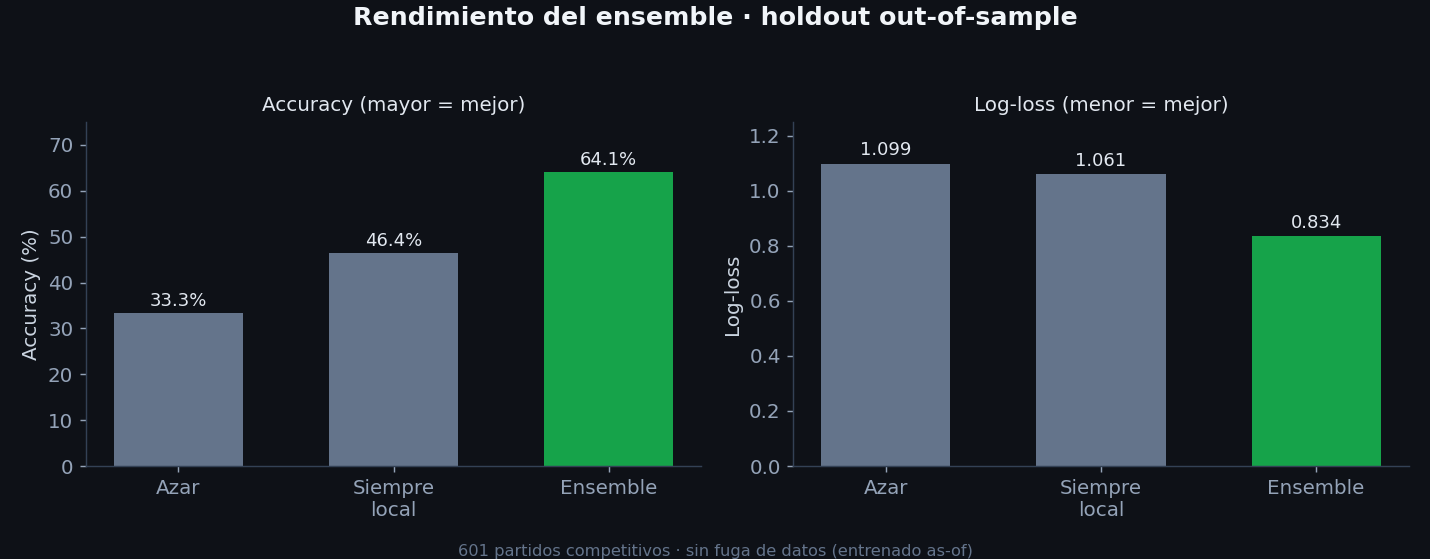
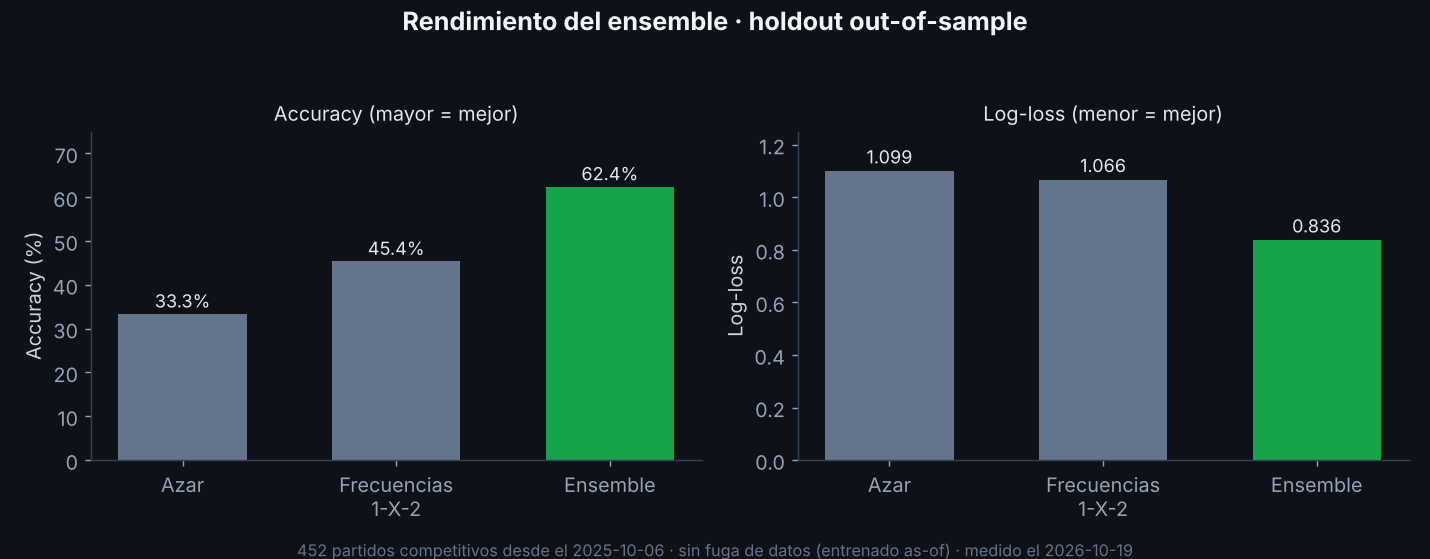
docs: regenerar las figuras con las métricas del backtest actual
Las figuras de docs/ eran de junio y mostraban 64.1% sobre 601 partidos.
Ahora reflejan el holdout de 12 meses medido el 2026-10-19 (452 partidos):
ensemble 62.4% / log-loss 0.836 / RPS 0.163, cuántico 62.4% / RPS 0.169,
baseline de frecuencias 45.4% / 1.066.

Para que no vuelvan a quedar desfasadas, quantum_eval.py guarda sus
métricas en docs/metricas_holdout.json y scripts/make_readme_figure.py
las lee de ahí en vez de tenerlas escritas a mano. El ranking Elo y la
frontera de decisión salen de data/processed/quantum_demo.json actual.

Claude-Session: https://claude.ai/code/session_0114ttwJo4EHPeLH2H4owZd1

diff --git a/scripts/make_readme_figure.py b/scripts/make_readme_figure.py
@@ -3,11 +3,16 @@
   - docs/ranking.png      ranking Elo de las selecciones del Mundial
   - docs/performance.png  rendimiento del ensemble vs baselines (out-of-sample)
 
-Lee data/processed/quantum_demo.json (no necesita PennyLane). Uso:
+Lee data/processed/quantum_demo.json (lo genera quantum_match.py) y
+docs/metricas_holdout.json (lo genera quantum_eval.py). No necesita PennyLane.
+Uso:
+    python quantum_eval.py              # actualiza docs/metricas_holdout.json
     python scripts/make_readme_figure.py
 """
 import json
+import math
 import os
+import sys
 
 import matplotlib
 matplotlib.use("Agg")
@@ -21,6 +26,16 @@ os.makedirs(DOCS, exist_ok=True)
 with open(os.path.join(ROOT, "data/processed/quantum_demo.json"), encoding="utf-8") as f:
     D = json.load(f)
 
+_METRICS = os.path.join(DOCS, "metricas_holdout.json")
+if not os.path.exists(_METRICS):
+    sys.exit("Falta docs/metricas_holdout.json: corré primero `python quantum_eval.py`.")
+with open(_METRICS, encoding="utf-8") as f:
+    M = json.load(f)
+
+
+def _fmt_int(n):
+    return f"{n:,}".replace(",", ".")
+
 BG = "#0e1117"
 plt.rcParams.update({
     "figure.facecolor": BG, "axes.facecolor": BG, "savefig.facecolor": BG,
@@ -32,8 +47,9 @@ plt.rcParams.update({
 
 def fig_quantum():
     models = ["Baseline", "Cuántico (4q)", "Ensemble"]
-    acc = [46.4, 61.2, 64.1]
-    rps = [0.234, 0.175, 0.160]
+    rows = [M["baseline_frecuencias"], M["cuantico"], M["ensemble"]]
+    acc = [r["acc"] * 100 for r in rows]
+    rps = [r["rps"] for r in rows]
     colors = ["#64748b", "#a855f7", "#16a34a"]
 
     fig, (ax1, ax2) = plt.subplots(1, 2, figsize=(12, 4.6),
@@ -69,8 +85,9 @@ def fig_quantum():
     for s in ["top", "right"]:
         ax2.spines[s].set_visible(False)
 
-    fig.text(0.5, 0.01, "4 qubits · data re-uploading · entrenado sobre 23.298 partidos "
-             "(PennyLane) · RPS menor = mejor", ha="center", color="#64748b", fontsize=9)
+    fig.text(0.5, 0.01, f"4 qubits · data re-uploading · entrenado sobre {_fmt_int(D['n_matches'])} "
+             f"partidos (PennyLane) · holdout de {M['partidos']} partidos · RPS menor = mejor",
+             ha="center", color="#64748b", fontsize=9)
     fig.tight_layout(rect=[0, 0.03, 1, 0.94])
     fig.savefig(os.path.join(DOCS, "quantum.png"), dpi=130)
     plt.close(fig)
@@ -99,14 +116,15 @@ def fig_ranking():
 
 
 def fig_performance():
-    # Métricas del backtest out-of-sample (holdout 12m, 601 partidos competitivos)
+    # Métricas del holdout out-of-sample que guarda quantum_eval.py
     fig, (ax1, ax2) = plt.subplots(1, 2, figsize=(11, 4.3))
     fig.suptitle("Rendimiento del ensemble · holdout out-of-sample",
                  fontsize=14, fontweight="bold", color="#f1f5f9", y=0.99)
 
-    labels = ["Azar", "Siempre\nlocal", "Ensemble"]
-    acc = [33.3, 46.4, 64.1]
-    ll = [1.099, 1.061, 0.834]
+    labels = ["Azar", "Frecuencias\n1-X-2", "Ensemble"]
+    base, ens = M["baseline_frecuencias"], M["ensemble"]
+    acc = [100 / 3, base["acc"] * 100, ens["acc"] * 100]
+    ll = [math.log(3), base["logloss"], ens["logloss"]]
     cols_a = ["#64748b", "#64748b", "#16a34a"]
 
     ax1.bar(labels, acc, color=cols_a, width=0.6)
@@ -124,7 +142,8 @@ def fig_performance():
     for ax in (ax1, ax2):
         for s in ["top", "right"]:
             ax.spines[s].set_visible(False)
-    fig.text(0.5, 0.005, "601 partidos competitivos · sin fuga de datos (entrenado as-of)",
+    fig.text(0.5, 0.005, f"{M['partidos']} partidos competitivos desde el {M['desde']} · "
+             f"sin fuga de datos (entrenado as-of) · medido el {M['medido']}",
              ha="center", color="#64748b", fontsize=9)
     fig.tight_layout(rect=[0, 0.03, 1, 0.95])
     fig.savefig(os.path.join(DOCS, "performance.png"), dpi=130)

diff --git a/quantum_eval.py b/quantum_eval.py
@@ -10,6 +10,8 @@ Uso:  python quantum_eval.py [--months 12]
 from __future__ import annotations
 
 import argparse
+import json
+from pathlib import Path
 
 import numpy as np
 import pandas as pd
@@ -17,6 +19,8 @@ import pandas as pd
 from src.evaluation.backtest import _CLASSES, _load, _metrics, train_ensemble_asof
 from src.features.build_features import build_training_table
 from src.models.quantum import FEATURES, QuantumMatchClassifier
+
+METRICS_PATH = Path(__file__).resolve().parent / "docs" / "metricas_holdout.json"
 
 
 def _result_idx(hs, as_):
@@ -64,6 +68,23 @@ def main(months=12):
     print(f"{'⚛ Cuántico (4 qubits)':<26}{qm['acc']:>9.1%}{qm['logloss']:>10.4f}{qm['rps']:>8.4f}")
     print(f"{'🧮 Ensemble':<26}{em['acc']:>9.1%}{em['logloss']:>10.4f}{em['rps']:>8.4f}")
     print(f"{'📏 Baseline (frec.)':<26}{bm['acc']:>9.1%}{bm['logloss']:>10.4f}{bm['rps']:>8.4f}")
+
+    # Lo usa scripts/make_readme_figure.py para que las figuras no queden desfasadas.
+    def _row(m):
+        return {k: round(float(m[k]), 4) for k in ("acc", "logloss", "rps")}
+
+    payload = {
+        "medido": pd.Timestamp.now().strftime("%Y-%m-%d"),
+        "datos_hasta": str(matches["date"].max().date()),
+        "desde": str(cutoff.date()),
+        "meses": months,
+        "partidos": int(n),
+        "cuantico": _row(qm),
+        "ensemble": _row(em),
+        "baseline_frecuencias": _row(bm),
+    }
+    METRICS_PATH.write_text(json.dumps(payload, ensure_ascii=False, indent=2) + "\n", encoding="utf-8")
+    print(f"\nMétricas guardadas en {METRICS_PATH.relative_to(METRICS_PATH.parent.parent)}")
 
 
 if __name__ == "__main__":

diff --git a/README.md b/README.md
@@ -57,7 +57,7 @@ Para reproducirlas: `python -m src.pipeline`, después `python -m src.evaluation
   <img src="docs/quantum.png" alt="Módulo cuántico: frontera de decisión y comparación con el ensemble" width="85%"/>
 </p>
 
-Las figuras corresponden a la evaluación de junio. El reporte de esa evaluación, con el análisis de errores y las mejoras probadas, está en [REPORTE_MEJORAS.md](REPORTE_MEJORAS.md).
+Las figuras de rendimiento usan las métricas del holdout que guarda `quantum_eval.py` en [`docs/metricas_holdout.json`](docs/metricas_holdout.json). El reporte de la evaluación de junio, con el análisis de errores y las mejoras probadas, está en [REPORTE_MEJORAS.md](REPORTE_MEJORAS.md).
 
 ## ✨ Características
 
@@ -158,7 +158,7 @@ python quantum_eval.py                               # cuántico vs ensemble
 | `calibration_experiment.py` | Prueba *temperature scaling* sobre las probabilidades del ensemble |
 | `quantum_hardware.py` | Corre el clasificador en Qiskit, en simulador o en una QPU real de IBM Quantum |
 | `build_quantum_widget.py` | Genera el demo interactivo del predictor cuántico |
-| `scripts/make_readme_figure.py` | Regenera las figuras de `docs/` |
+| `scripts/make_readme_figure.py` | Regenera las figuras de `docs/` a partir de `docs/metricas_holdout.json`; corré antes `quantum_eval.py` |
 
 `quantum_hardware.py` necesita las dependencias opcionales de Qiskit, que no se instalan con `requirements.txt`:
 

diff --git a/CHANGELOG.md b/CHANGELOG.md
@@ -9,6 +9,8 @@ Hitos del proyecto (de lo más nuevo a lo más viejo).
   log-loss 0.838, RPS 0.156, contra 47.1% del baseline "siempre local".
 - **Holdout 12 meses** (452 partidos competitivos): ensemble 62.4% / 0.836 / RPS 0.163,
   cuántico 62.4% / 0.874 / RPS 0.169.
+- Figuras de `docs/` regeneradas con estas métricas. `quantum_eval.py` ahora las guarda en
+  `docs/metricas_holdout.json` y `scripts/make_readme_figure.py` las lee de ahí.
 - Las cifras de las secciones siguientes son de junio y quedan como registro histórico.
 
 ## Módulo cuántico (QML)
